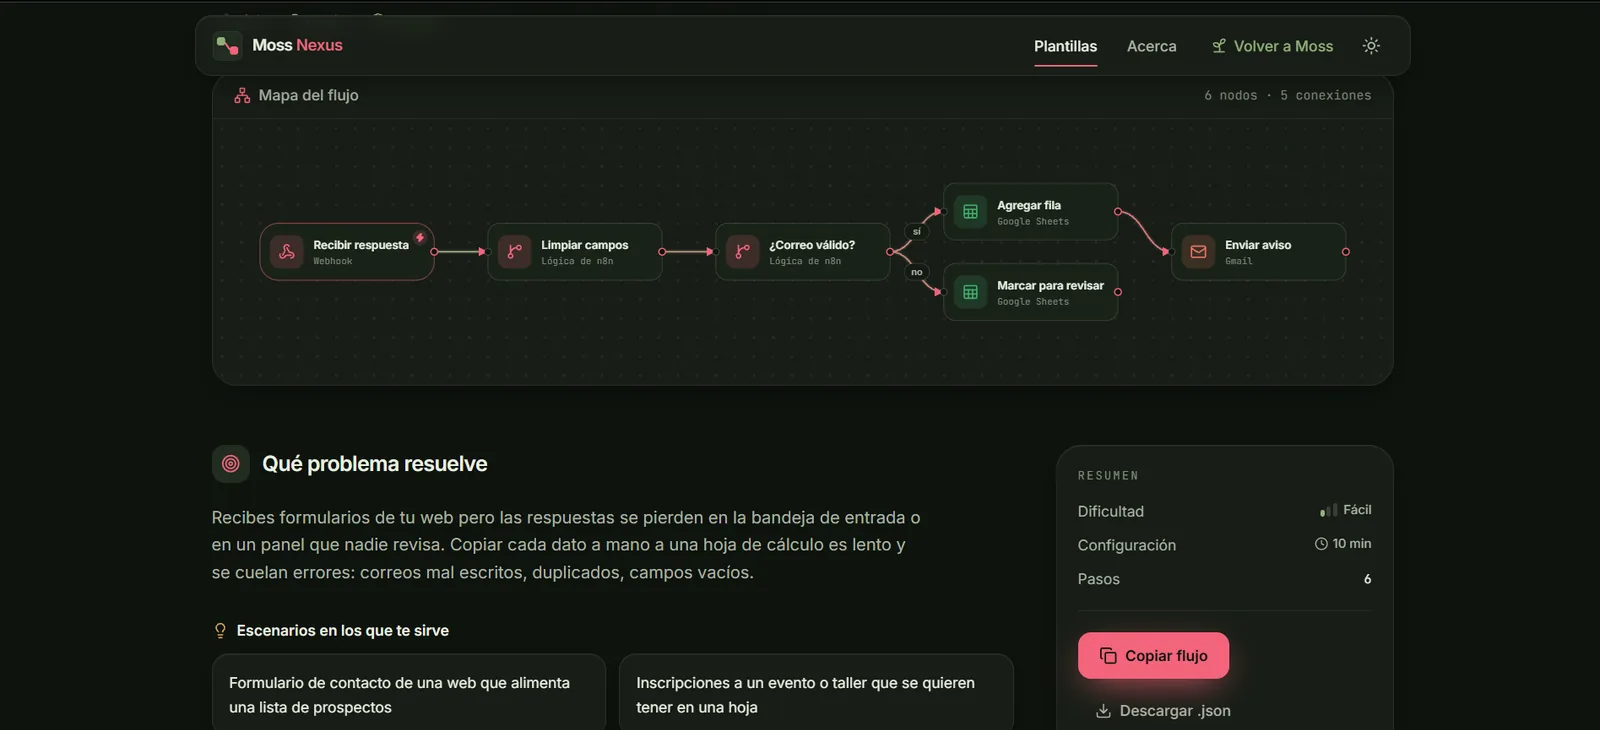
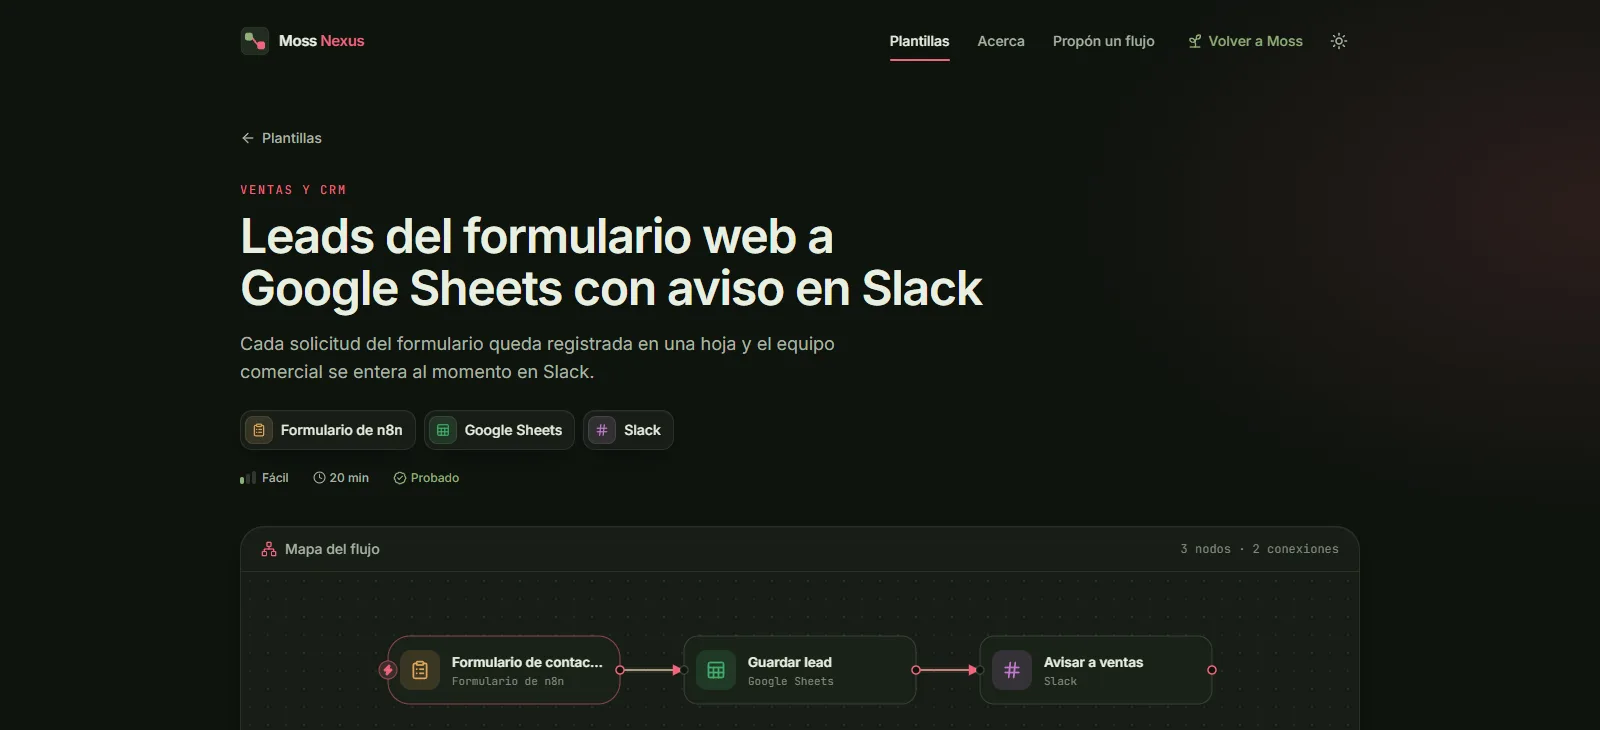
docs(nexus): renueva las capturas con la v1.0.0 en vivo
Las anteriores mostraban 14 plantillas y no tenían sellos. Las nuevas salen del sitio publicado: el inicio con 13 plantillas y 9 probadas, la galería con el filtro «Solo probadas», la sección del sello en Acerca y una ficha probada. Textos alternativos al día en los dos idiomas.

diff --git a/src/data/nexus.js b/src/data/nexus.js
@@ -29,10 +29,10 @@ export const NEXUS = {
       gallery: "Capturas de Moss Nexus",
       view: "Ver captura",
       capturas: [
-        { label: "Inicio",     alt: "Inicio de Moss Nexus: buscador y lienzo con un flujo animado" },
-        { label: "Plantillas", alt: "Galería de plantillas de Moss Nexus con búsqueda, filtros y el filtro «Solo probadas»" },
-        { label: "Acerca",     alt: "Página Acerca de Moss Nexus: qué es, su relación con Moss y qué significa el sello «Probado»" },
-        { label: "Ejemplo",    alt: "Detalle de una plantilla de Moss Nexus con el mapa del flujo y el botón para copiarlo" },
+        { label: "Inicio",     alt: "Inicio de Moss Nexus: buscador y cifras del catálogo, 13 plantillas y 9 probadas en n8n" },
+        { label: "Plantillas", alt: "Galería de las 13 plantillas de Moss Nexus con búsqueda, filtros y el filtro «Solo probadas» con 9" },
+        { label: "Sello",      alt: "Sección de Acerca que explica el sello «Probado»: 9 de 13 plantillas, instancia real de n8n, datos ficticios y casos trampa" },
+        { label: "Ejemplo",    alt: "Ficha de una plantilla con el sello «Probado» y el mapa del flujo" },
       ],
       pilares: [
         { nombre: "Galería de plantillas", desc: "13 flujos con búsqueda y filtros por herramienta, categoría, dificultad y «Solo probadas»." },
@@ -54,10 +54,10 @@ export const NEXUS = {
       gallery: "Moss Nexus screenshots",
       view: "Show screenshot",
       capturas: [
-        { label: "Home",      alt: "Moss Nexus home: search bar and canvas with an animated workflow" },
-        { label: "Templates", alt: "Moss Nexus template gallery with search, filters and the “Tested only” filter" },
-        { label: "About",     alt: "Moss Nexus About page: what it is, how it relates to Moss and what the “Tested” badge means" },
-        { label: "Example",   alt: "Moss Nexus template detail with the workflow map and the copy button" },
+        { label: "Home",      alt: "Moss Nexus home: search bar and catalog figures, 13 templates and 9 tested in n8n" },
+        { label: "Templates", alt: "Gallery of the 13 Moss Nexus templates with search, filters and the “Tested only” filter showing 9" },
+        { label: "Badge",     alt: "About section explaining the “Tested” badge: 9 of 13 templates, a real n8n instance, fictional data and edge cases" },
+        { label: "Example",   alt: "Template page with the “Tested” badge and the workflow map" },
       ],
       pilares: [
         { nombre: "Template gallery",  desc: "13 workflows with search and filters by tool, category, difficulty and “Tested only”." },
